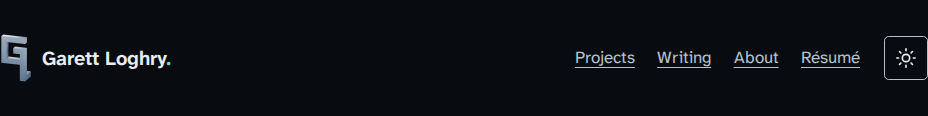
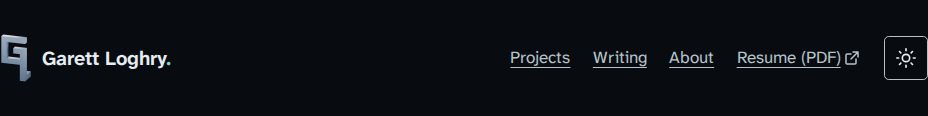
Refresh GL header review against latest site and record validation (#18)

Changed region(s): [[0.5312, 0.4397, 0.9375, 0.5948]]

diff --git a/docs/gl-mark.md b/docs/gl-mark.md
@@ -65,3 +65,13 @@ the existing accessibility, navigation, reflow and performance checks.
 
 Review those actual-background screenshots before merging this site change.
 Production remains unchanged until owner approval and merge.
+
+The checked review bundle is [gl-mark-review/](gl-mark-review/):
+[both themes at desktop/mobile sizes](gl-mark-review/headers.png), individual
+header captures, and native-size favicon sheets. [validation.json](gl-mark-review/validation.json)
+records the tested source commit, browser versions, viewports, build paths and
+results. Both final root and `/portfolio` audits pass 155 scenarios each;
+the site has 33 passing Python checks. The initial local cold-load failure
+also occurred on the unchanged site with the host's Nimbus Sans fallback;
+using the standard browser-test Liberation/Arial fallback resolved it without
+changing site typography or the test threshold.
